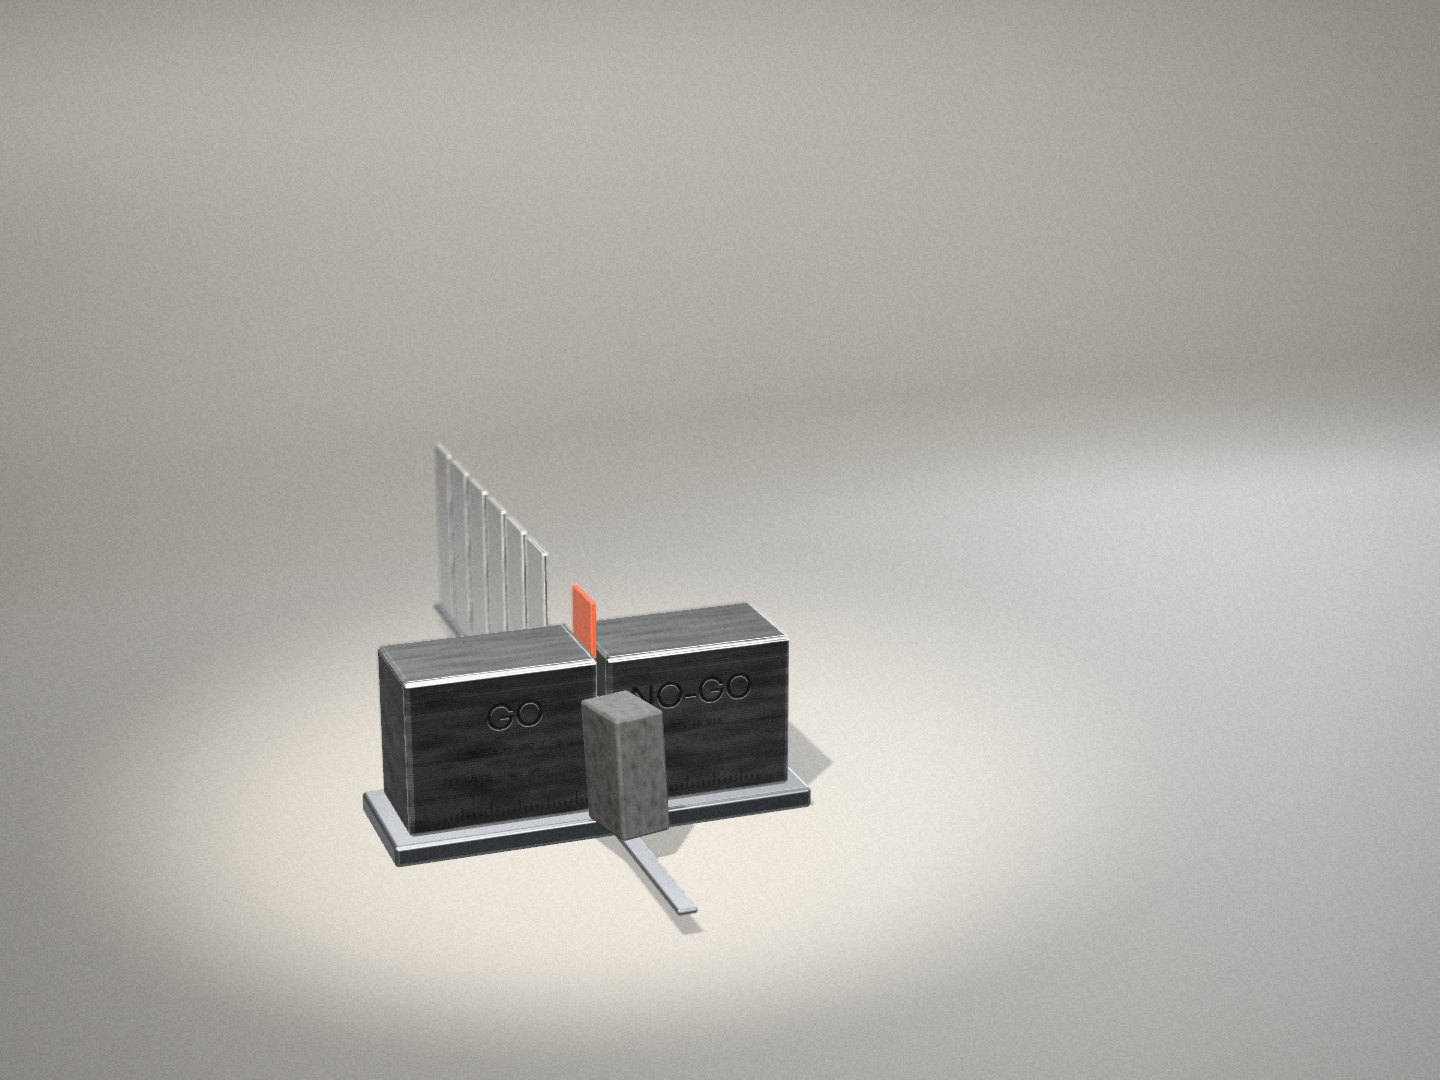
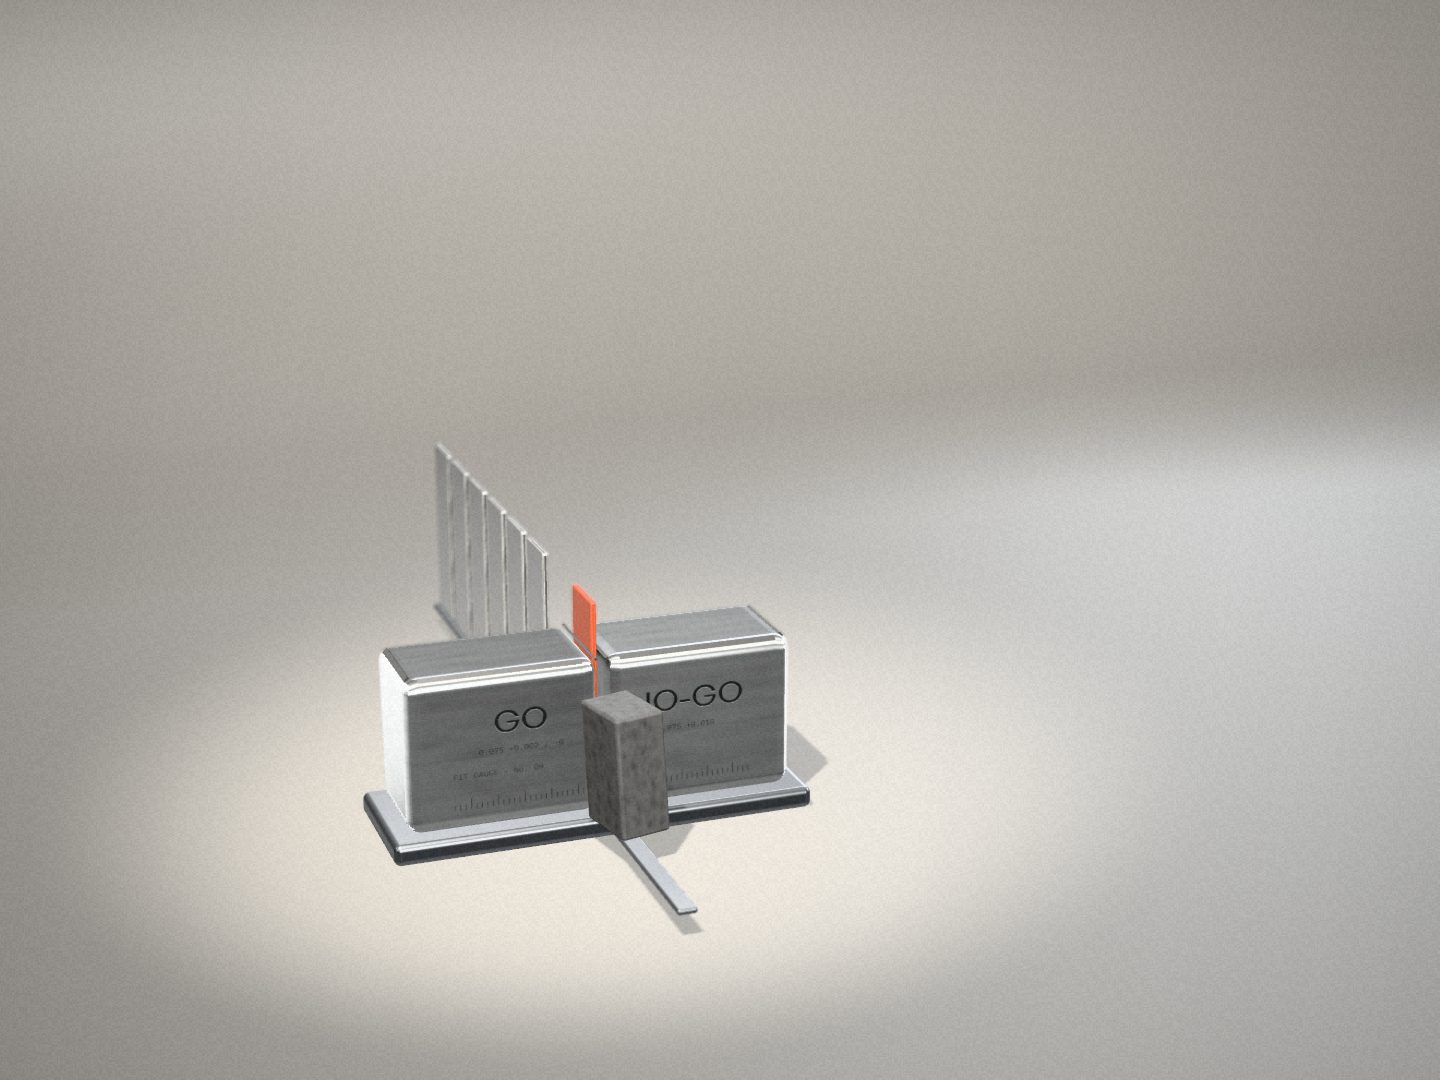
fix: make v3 captions and the booking studio readable
Restore the bone booking studio with satin metal, set product names in General Sans, and lift captions that sat on the wrong tone or ran off the edge.

Changed region(s): [[0.25, 0.55, 0.5625, 0.7944]]

diff --git a/app/home/home.css b/app/home/home.css
@@ -40,7 +40,7 @@
 }
 .pa a.pa-skip:focus { top: 12px; }
 
-.pa-mono, .pa .pa-cap, .pa .pa-note, .pa .pa-prog, .pa .pa-meta, .pa .pa-k, .pa .pa-n, .pa-fit h4, .pa-what li span, .pa-ft, .pa-plate, .pa-person figcaption span, .pa-person figcaption p, .pa-lab, .pa-pin span {
+.pa-mono, .pa .pa-note, .pa .pa-prog, .pa .pa-meta, .pa .pa-k, .pa .pa-n, .pa-fit h4, .pa-what li span, .pa-ft, .pa-plate, .pa-person figcaption span, .pa-person figcaption p, .pa-lab, .pa-pin span, .pa-hero .pa-cap, .pa-eng .pa-cap, .pa-partners .pa-cap, .pa-fit .pa-hint {
   font-family: var(--font-mono);
   font-weight: 400;
   letter-spacing: 0.04em;
@@ -101,7 +101,8 @@
 .pa-actions { margin-top: 28px; display: flex; gap: 28px; align-items: center; font-size: 15px; }
 .pa-hero .pa-cap {
   position: absolute; z-index: 3; right: var(--pad); bottom: calc(var(--pad) + 8px);
-  color: var(--g2); text-align: right; line-height: 1.6; font-size: 11px;
+  width: auto; transform: none;
+  color: var(--g1); text-align: right; line-height: 1.6; font-size: 12px;
 }
 .pa-hero-scrim { display: none; }
 
@@ -119,9 +120,9 @@
 .pa-demo h2 { font-size: 76px; }
 .pa-demo .pa-side { right: var(--pad); top: 112px; width: 330px; font-size: 16px; line-height: 1.5; color: var(--muted); }
 .pa-demo .pa-side b { font-weight: 500; color: var(--ink); }
-.pa-tag { transform: translate(-50%, 0); color: #5b5f62; white-space: nowrap; font-size: 11px; }
+.pa-tag { transform: translate(-50%, 0); color: #3a3e42; white-space: nowrap; font-size: 11px; }
 .pa-tag i { font-style: normal; color: var(--ink); }
-.pa-demo .pa-prog { right: var(--pad); top: 470px; color: #5b5f62; text-align: right; font-size: 11px; }
+.pa-demo .pa-prog { right: var(--pad); top: 470px; color: #3a3e42; text-align: right; font-size: 12px; }
 .pa-demo .pa-prog b { display: block; font-family: var(--font-sans); font-weight: 500; font-size: 44px; letter-spacing: -0.03em; text-transform: none; color: var(--ink); margin-bottom: 6px; }
 .pa-demo .pa-foot {
   left: var(--pad); right: var(--pad); bottom: 44px;
@@ -142,7 +143,12 @@
 .pa-stage-copy .pa-n { display: flex; gap: 12px; align-items: center; margin-bottom: 14px; color: #e2e2df; font-size: 11px; letter-spacing: 0.06em; }
 .pa-stage-copy .pa-n::after { content: ""; flex: 1; height: 1px; background: var(--g3); }
 .pa-stage-copy .pa-meta { margin-top: 14px; font-size: 11px; line-height: 1.7; color: var(--g1); }
-.pa-eng .pa-cap { right: var(--pad); bottom: 40px; color: var(--g2); font-size: 11px; }
+.pa-eng .pa-cap {
+  right: var(--pad); left: auto; bottom: 40px; width: min(480px, 46vw); transform: none;
+  text-align: right; color: #f4f2ec; font-size: 12px; line-height: 1.5;
+  background: rgba(17, 19, 21, 0.86);
+  padding: 10px 14px;
+}
 
 .pa-how { height: 1300px; background: #f1efe9; }
 .pa-how .pa-head { left: var(--pad); top: 120px; width: min(860px, 62vw); }
@@ -187,14 +193,23 @@
 .pa-products h2 { font-size: 72px; }
 .pa-products .pa-side { right: var(--pad); top: 112px; width: 340px; font-size: 16px; line-height: 1.5; color: var(--muted); }
 .pa-products .pa-side b { color: var(--ink); font-weight: 500; }
-.pa-cap { width: 250px; transform: translate(-50%, 0); text-align: left; color: var(--ink); }
-.pa-cap .pa-mono { display: block; margin-bottom: 8px; color: var(--muted); font-size: 11px; }
-.pa-cap h3 { font-size: 19px; margin-bottom: 4px; }
-.pa-cap p { font-size: 14px; line-height: 1.45; color: var(--muted); }
-.pa-cap ul { list-style: none; margin-top: 12px; }
-.pa-cap li { display: grid; grid-template-columns: 78px 1fr; gap: 8px; padding: 5px 0; border-top: 1px solid rgba(17, 19, 21, 0.16); font: 400 10.5px/1.45 var(--font-mono); letter-spacing: 0.03em; text-transform: uppercase; color: #4a4e52; }
-.pa-cap li b { font-weight: 400; color: #1d2023; }
+.pa-products .pa-cap {
+  width: 250px; transform: translate(-50%, 0); text-align: left; color: var(--ink);
+  font-family: var(--font-sans); font-weight: 400; letter-spacing: normal; text-transform: none;
+}
+.pa-products .pa-cap h3,
+.pa-products .pa-cap p,
+.pa-products .pa-status {
+  font-family: var(--font-sans); letter-spacing: normal; text-transform: none; font-weight: 400;
+}
+.pa-products .pa-cap .pa-mono { display: block; margin-bottom: 8px; color: #2c3034; font-size: 11px; }
+.pa-products .pa-cap h3 { font-size: 19px; font-weight: 500; letter-spacing: -0.015em; margin-bottom: 4px; color: var(--ink); }
+.pa-products .pa-cap p { font-size: 14px; line-height: 1.45; color: #2c3034; }
+.pa-products .pa-cap ul { list-style: none; margin-top: 12px; }
+.pa-products .pa-cap li { display: grid; grid-template-columns: 78px 1fr; gap: 8px; padding: 5px 0; border-top: 1px solid rgba(17, 19, 21, 0.16); font: 400 10.5px/1.45 var(--font-mono); letter-spacing: 0.03em; text-transform: uppercase; color: #3a3e42; }
+.pa-products .pa-cap li b { font-weight: 400; color: #1d2023; }
 .pa-status { margin-top: 10px; display: inline-flex; gap: 8px; align-items: center; font-size: 12px; color: var(--ink); }
+.pa-products .pa-status .ph { font-family: var(--font-mono); font-size: 11px; letter-spacing: 0.04em; text-transform: none; }
 .pa-status i { width: 6px; height: 6px; border-radius: 50%; background: var(--ink); }
 .pa-status.is-off { color: var(--muted); }
 .pa-status.is-off i { background: transparent; border: 1px solid #55595d; }
@@ -209,7 +224,11 @@
 .pa-partners .pa-terms span { color: #f3f3f1; font-weight: 500; }
 .pa-partners .pa-terms em { font-style: normal; }
 .pa-partners .pa-cta { right: var(--pad); top: 760px; }
-.pa-partners .pa-cap { left: var(--pad); bottom: 40px; color: #e8e8e6; font-size: 11px; }
+.pa-partners .pa-cap {
+  left: var(--pad); right: auto; bottom: 40px; width: auto; max-width: calc(100% - (var(--pad) * 2));
+  transform: none; white-space: nowrap; text-align: left;
+  color: #141618; font-size: 12px; line-height: 1.4;
+}
 .pa-plate { transform: translate(-50%, -50%); color: #3b3d3f; font-size: 12px; letter-spacing: 0.06em; white-space: nowrap; text-transform: none; }
 
 .pa-team { height: 1220px; background: #1b1d1f; }
@@ -234,32 +253,45 @@
 .pa-fit .pa-head { left: var(--pad); top: 96px; width: min(640px, 46vw); }
 .pa-fit h2 { font-size: 72px; }
 .pa-fit .pa-lists { right: var(--pad); top: 120px; width: 470px; }
-.pa-fit h4 { display: flex; justify-content: space-between; margin: 0 0 12px; font-size: 11px; letter-spacing: 0.06em; color: #3d4144; }
+.pa-fit h4 { display: flex; justify-content: space-between; margin: 0 0 12px; font-size: 12px; letter-spacing: 0.06em; color: #16181a; }
 .pa-fit ul { list-style: none; margin-bottom: 44px; }
 .pa-fit li { border-top: 1px solid rgba(17, 19, 21, 0.2); }
 .pa-fit button {
   display: flex; width: 100%; justify-content: space-between; align-items: baseline; gap: 20px;
   padding: 15px 0; background: none; border: 0; color: var(--ink); font-size: 19px; letter-spacing: -0.01em; text-align: left; cursor: pointer;
 }
-.pa-fit button span:last-child { font-family: var(--font-mono); font-size: 11px; letter-spacing: 0.05em; color: #3d4144; white-space: nowrap; }
-.pa-fit .is-no button { color: #4a4e52; }
+.pa-fit button span:last-child { font-family: var(--font-mono); font-size: 12px; letter-spacing: 0.05em; color: #16181a; white-space: nowrap; }
+.pa-fit .is-no button { color: #2a2e32; }
 .pa-fit .is-no button span:first-child { text-decoration: line-through; text-decoration-color: rgba(17, 19, 21, 0.35); text-decoration-thickness: 1px; }
-.pa-fit .pa-hint { left: var(--pad); bottom: 44px; color: #3d4144; font-size: 11px; }
+.pa-fit .pa-hint {
+  left: var(--pad); bottom: 36px; width: min(540px, 42vw); max-width: calc(100% - (var(--pad) * 2));
+  color: #16181a; font-size: 13px; line-height: 1.45;
+}
 
 .pa-book { height: 1000px; background: #e9e6df; }
 .pa-book .pa-head { left: var(--pad); top: 140px; width: min(820px, 64vw); }
 .pa-book h2 { font-size: 84px; letter-spacing: -0.045em; }
-.pa-book .pa-sub { left: var(--pad); top: 400px; width: 420px; font-size: 17px; line-height: 1.5; color: var(--muted); }
+.pa-book::after {
+  content: "";
+  position: absolute;
+  z-index: 1;
+  left: 0; top: 0; bottom: 0;
+  width: min(820px, 58%);
+  pointer-events: none;
+  background: linear-gradient(90deg, rgba(233, 230, 223, 0.96) 0%, rgba(233, 230, 223, 0.82) 58%, rgba(233, 230, 223, 0) 100%);
+}
+.pa-book .pa-sub { left: var(--pad); top: 400px; width: 420px; font-size: 17px; line-height: 1.5; color: #2c3033; }
 .pa-book .pa-act { left: var(--pad); top: 540px; display: flex; flex-direction: column; gap: 18px; align-items: flex-start; }
-.pa-book .pa-act .ph { font-family: var(--font-mono); font-size: 11px; letter-spacing: 0.04em; }
+.pa-book .pa-act .ph { font-family: var(--font-mono); font-size: 12px; letter-spacing: 0.04em; color: #7a3018; }
 .pa a.pa-alt { font-size: 15px; color: var(--muted); border-bottom: 1px solid rgba(17, 19, 21, 0.3); }
-.pa-book .pa-what { left: var(--pad); top: 760px; width: 470px; font-size: 14px; line-height: 1.5; color: #4a4f53; list-style: none; }
-.pa-book .pa-what li { display: grid; grid-template-columns: 110px 1fr; padding: 9px 0; border-top: 1px solid rgba(17, 19, 21, 0.14); }
-.pa-book .pa-what li span { font-size: 11px; line-height: 1.9; letter-spacing: 0.05em; color: #4a4f53; }
+.pa-book a.pa-alt { color: #1a1d20; border-bottom-color: rgba(17, 19, 21, 0.45); }
+.pa-book .pa-what { left: var(--pad); top: 760px; width: 470px; font-size: 14px; line-height: 1.5; color: #2c3033; list-style: none; }
+.pa-book .pa-what li { display: grid; grid-template-columns: 110px 1fr; padding: 9px 0; border-top: 1px solid rgba(17, 19, 21, 0.22); }
+.pa-book .pa-what li span { font-size: 12px; line-height: 1.9; letter-spacing: 0.05em; color: #1c1f22; }
 .pa-book .pa-ft {
   left: var(--pad); right: var(--pad); bottom: 28px;
   display: flex; justify-content: space-between;
-  font-size: 11px; letter-spacing: 0.05em; color: #4a4f53;
+  font-size: 12px; letter-spacing: 0.05em; color: #2a2e32;
 }
 
 @media (max-width: 820px) {
@@ -311,7 +343,8 @@
   .pa-partners .pa-head { order: 1; }
   .pa-partners .pa-terms { order: 4; margin-top: 8px !important; }
   .pa-partners .pa-cta { order: 5; margin-top: 24px !important; }
-  .pa-partners .pa-cap { order: 6; margin-top: 24px !important; }
+  .pa-partners .pa-cap { order: 6; margin-top: 24px !important; white-space: normal; color: #f7f6f4; background: transparent; }
+  .pa-book::after { display: none; }
   .pa-person { position: relative; left: auto !important; top: auto !important; margin: 34px var(--pad) 0; }
   .pa-person.is-a { width: auto; }
   .pa-person.is-b { width: 72%; margin-left: auto; }

diff --git a/app/home/v3/fit.ts b/app/home/v3/fit.ts
@@ -17,14 +17,14 @@ function variedSteel() {
   for (let k = 0; k < 28; k += 1) {
     const y = n() * 512;
     const tone = 90 + n() * 90;
-    x.fillStyle = `rgba(${tone},${tone + 2},${tone + 4},${0.08 + n() * 0.12})`;
+    x.fillStyle = `rgba(${tone},${tone + 2},${tone + 4},${0.035 + n() * 0.05})`;
     x.fillRect(0, y, 512, 6 + n() * 28);
   }
   for (let k = 0; k < 80; k += 1) {
     const r = 18 + n() * 70;
     const g = x.createRadialGradient(0, 0, 0, 0, 0, r);
     const v = n() < 0.5 ? 70 : 190;
-    g.addColorStop(0, `rgba(${v},${v},${v + 6},${0.08 + n() * 0.1})`);
+    g.addColorStop(0, `rgba(${v},${v},${v + 6},${0.035 + n() * 0.04})`);
     g.addColorStop(1, "rgba(0,0,0,0)");
     x.save();
     x.translate(n() * 512, n() * 512);
@@ -39,7 +39,7 @@ function variedSteel() {
   for (let i = 0; i < image.data.length; i += 4) {
     const j = (i / 4) | 0;
     const row = (j / 512) | 0;
-    const grain = Math.sin(row * 0.85) * 10 + (n() * 16 - 8);
+    const grain = Math.sin(row * 0.85) * 6 + (n() * 8 - 4);
     image.data[i] = Math.max(0, Math.min(255, image.data[i] + grain));
     image.data[i + 1] = Math.max(0, Math.min(255, image.data[i + 1] + grain));
     image.data[i + 2] = Math.max(0, Math.min(255, image.data[i + 2] + grain - 2));
@@ -72,19 +72,23 @@ export async function mountFit(canvas: HTMLCanvasElement, options: SceneOptions)
   S.rim.intensity = 2.2;
   S.rim.position.set(5, 4, -7);
   const { scene } = S;
-  const brush = brushedTex();
+  const brush = brushedTex(5, 28);
   const steelMap = variedSteel();
   const steel = new THREE.MeshPhysicalMaterial({
     color: 0xffffff,
     map: steelMap,
-    metalness: 1,
-    roughness: 0.38,
-    roughnessMap: steelMap,
-    bumpMap: steelMap,
-    bumpScale: 0.07,
-    anisotropy: 0.75,
-    envMapIntensity: 0.95,
+    metalness: 0.92,
+    roughness: 0.36,
+    roughnessMap: brush,
+    bumpMap: brush,
+    bumpScale: 0.018,
+    anisotropy: 0.86,
+    envMapIntensity: 0.62,
   });
+  const steelL = steel.clone();
+  steelL.anisotropyRotation = 0.18;
+  const steelR = steel.clone();
+  steelR.anisotropyRotation = -0.22;
   const ground2 = tex(512, (i) => 150 + Math.sin(i * 2.3) * 8 + (rnd() * 40 - 20));
   const steelG = new THREE.MeshPhysicalMaterial({ color: 0x8e9194, metalness: 1, roughness: 0.42, roughnessMap: ground2, envMapIntensity: 1 });
   const alu = new THREE.MeshPhysicalMaterial({ color: 0xd9d8d4, metalness: 1, roughness: 0.28, roughnessMap: brush, envMapIntensity: 1.1 });
@@ -145,14 +149,24 @@ export async function mountFit(canvas: HTMLCanvasElement, options: SceneOptions)
   const GD = 0.95;
   const slot = 0.075;
   const half = (GW - slot) / 2;
-  for (const sx of [-1, 1]) sh(new THREE.Mesh(new RoundedBoxGeometry(half, GH, GD, 6, 0.045), steel)).position.set(sx * (slot / 2 + half / 2), GH / 2 + 0.18, 0);
-  sh(new THREE.Mesh(new RoundedBoxGeometry(GW + 0.3, 0.18, GD + 0.25, 5, 0.035), steelG)).position.set(0, 0.09, 0);
+  const bevel = 0.12;
+  for (const sx of [-1, 1]) {
+    const block = sh(new THREE.Mesh(new RoundedBoxGeometry(half, GH, GD, 4, bevel), sx < 0 ? steelL : steelR));
+    block.position.set(sx * (slot / 2 + half / 2), GH / 2 + 0.18, 0);
+    const lip = sh(new THREE.Mesh(new THREE.BoxGeometry(0.05, 0.05, GD - bevel * 2), alu));
+    lip.position.set(sx * (slot / 2 + half - bevel * 0.45), GH + 0.18 - 0.028, 0);
+    lip.rotation.z = sx * -Math.PI / 4;
+    const nose = sh(new THREE.Mesh(new THREE.BoxGeometry(half - bevel * 2, 0.045, 0.045), alu));
+    nose.position.set(sx * (slot / 2 + half / 2), GH + 0.18 - 0.03, GD / 2 - bevel * 0.55);
+    nose.rotation.x = Math.PI / 4;
+  }
+  sh(new THREE.Mesh(new RoundedBoxGeometry(GW + 0.3, 0.18, GD + 0.25, 4, 0.055), steelG)).position.set(0, 0.09, 0);
   for (const sx of [-1, 1]) {
     const lip = sh(new THREE.Mesh(new THREE.BoxGeometry(0.02, 0.02, GD - 0.06), alu));
     lip.position.set(sx * (slot / 2 + 0.01), GH + 0.18 - 0.006, 0);
     lip.rotation.z = sx * Math.PI / 4;
   }
-  const face = new THREE.Mesh(new THREE.PlaneGeometry(GW, GH), engrave((x) => {
+  const face = new THREE.Mesh(new THREE.PlaneGeometry(GW - bevel * 1.7, GH - bevel * 1.7), engrave((x) => {
     letters(x, "GO", 560, 250, 190);
     letters(x, "NO-GO", 1500, 250, 190);
     x.font = '400 46px "IBM Plex Mono"';

diff --git a/app/home/v3/book.ts b/app/home/v3/book.ts
@@ -19,35 +19,79 @@ export async function mountBook(canvas: HTMLCanvasElement, options: SceneOptions
     tone: 1,
     light: true,
   });
-  S.setVignette(0.82);
+  S.setVignette(0.94);
+  S.setGrain(0.012);
   S.spot.color.set(0xffe9cf);
   S.spot.penumbra = 0.6;
   S.spot.shadow.radius = 3;
-  S.rim.intensity = 0.3;
+  S.rim.intensity = 0.55;
+  S.rim.color.set(0xffe2c4);
   const { scene, renderer } = S;
+  const hemi = scene.children.find((child): child is THREE.HemisphereLight => child instanceof THREE.HemisphereLight);
+  if (hemi) {
+    hemi.color.set(0xf6f1e8);
+    hemi.groundColor.set(0xe7e1d6);
+    hemi.intensity = 0.95;
+  }
+  const fill = new THREE.DirectionalLight(0xf7f2ea, 2.6);
+  fill.position.set(-12, 9, 14);
+  scene.add(fill);
+  const bounce = new THREE.DirectionalLight(0xffe7cc, 0.7);
+  bounce.position.set(6, 3, -8);
+  scene.add(bounce);
+  const ground = scene.children.find((child): child is THREE.Mesh => child instanceof THREE.Mesh);
+  if (ground && !Array.isArray(ground.material)) {
+    const mat = ground.material as THREE.MeshStandardMaterial;
+    mat.color.set(0xe6e1d8);
+    mat.roughness = 0.88;
+    mat.metalness = 0;
+    mat.envMapIntensity = 0.2;
+  }
   const env = new THREE.Scene();
-  env.add(new THREE.Mesh(new THREE.BoxGeometry(40, 24, 40), new THREE.MeshBasicMaterial({ color: 0x5e5850, side: THREE.BackSide })));
+  env.add(new THREE.Mesh(new THREE.BoxGeometry(40, 24, 40), new THREE.MeshBasicMaterial({ color: 0xd9d3c8, side: THREE.BackSide })));
   const pnl = (pw: number, ph: number, x: number, y: number, z: number, color: number, intensity: number) => {
     const m = new THREE.Mesh(new THREE.PlaneGeometry(pw, ph), new THREE.MeshBasicMaterial({ color: new THREE.Color(color).multiplyScalar(intensity), side: THREE.DoubleSide }));
     m.position.set(x, y, z);
     m.lookAt(0, 1.5, 0);
     env.add(m);
   };
-  pnl(16, 6, 14, 4, -14, 0xffd9b0, 5);
-  pnl(6, 14, 18, 6, -4, 0xffe4c6, 2.2);
-  pnl(30, 30, 0, -11, 0, 0xe9e2d4, 0.9);
-  pnl(14, 10, -16, 6, 12, 0xe6e8ea, 1.6);
-  pnl(30, 4, 0, 14, 0, 0xf2ede4, 1);
+  pnl(16, 6, 14, 4, -14, 0xffd9b0, 2.2);
+  pnl(6, 14, 18, 6, -4, 0xffe4c6, 1.15);
+  pnl(30, 30, 0, -11, 0, 0xe9e2d4, 0.7);
+  pnl(14, 10, -16, 6, 12, 0xe6e8ea, 0.85);
+  pnl(30, 4, 0, 14, 0, 0xf2ede4, 0.7);
   const pm = new THREE.PMREMGenerator(renderer);
   const envTex = pm.fromScene(env, 0.03).texture;
   pm.dispose();
   scene.environment?.dispose();
   scene.environment = envTex;
+  scene.environmentIntensity = 0.42;
   const R = 3.1;
   const N = mobile ? 180 : 260;
   const geo = new RoundedBoxGeometry(1, 1, 1, 2, 0.06);
-  const metal = new THREE.MeshPhysicalMaterial({ color: 0xd6d3cd, metalness: 1, roughness: 0.22, roughnessMap: brushedTex(), anisotropy: 0.5, envMapIntensity: 1, envMap: envTex });
-  const hot = new THREE.MeshPhysicalMaterial({ color: 0xd8643e, metalness: 0.3, roughness: 0.42, clearcoat: 0.5, clearcoatRoughness: 0.3, emissive: 0xd8643e, emissiveIntensity: 0.12, envMap: envTex });
+  const metal = new THREE.MeshPhysicalMaterial({
+    color: 0xc9c5bd,
+    metalness: 0.78,
+    roughness: 0.35,
+    roughnessMap: brushedTex(8, 22),
+    anisotropy: 0.72,
+    anisotropyRotation: 0.35,
+    envMapIntensity: 0.48,
+    clearcoat: 0.04,
+    clearcoatRoughness: 0.7,
+    envMap: envTex,
+  });
+  const hot = new THREE.MeshPhysicalMaterial({
+    color: 0xd8643e,
+    metalness: 0.22,
+    roughness: 0.42,
+    clearcoat: 0.12,
+    clearcoatRoughness: 0.55,
+    emissive: 0xd8643e,
+    emissiveIntensity: 0.05,
+    envMapIntensity: 0.35,
+    envMap: envTex,
+  });
   const fins = new THREE.InstancedMesh(geo, metal, N);
   fins.castShadow = fins.receiveShadow = true;
   const M = new THREE.Matrix4();
@@ -103,7 +147,7 @@ export async function mountBook(canvas: HTMLCanvasElement, options: SceneOptions
   function tick(time: number) {
     raf = 0;
     if (!alive) return;
-    const a = Math.sin(time * 0.00035) * 0.22;
+    const a = Math.sin(time * 0.00022) * 0.05;
     S.spot.position.set(K0.x * Math.cos(a) - K0.z * Math.sin(a), K0.y, K0.x * Math.sin(a) + K0.z * Math.cos(a));
     S.render();
     raf = window.requestAnimationFrame(tick);

diff --git a/app/home/v3/studio.ts b/app/home/v3/studio.ts
@@ -123,11 +123,12 @@ const filmShader = {
     tDiffuse: { value: null as THREE.Texture | null },
     t: { value: 0 },
     vig: { value: 0.62 },
+    grain: { value: 0.04 },
     res: { value: new THREE.Vector2(1, 1) },
   },
   vertexShader: "varying vec2 vUv;void main(){vUv=uv;gl_Position=projectionMatrix*modelViewMatrix*vec4(position,1.0);}",
   fragmentShader: `
-    uniform sampler2D tDiffuse; uniform float t, vig; uniform vec2 res; varying vec2 vUv;
+    uniform sampler2D tDiffuse; uniform float t, vig, grain; uniform vec2 res; varying vec2 vUv;
     float h(vec2 p){return fract(sin(dot(p,vec2(12.9898,78.233)))*43758.5453);}
     void main(){
       vec4 c=texture2D(tDiffuse,vUv);
@@ -135,7 +136,7 @@ const filmShader = {
       float v=smoothstep(1.15,0.25,length(d));
       c.rgb*=mix(vig,1.0,v);
       float g=h(floor(vUv*res/1.5)+t)-0.5;
-      c.rgb+=g*0.04;
+      c.rgb+=g*grain;
       gl_FragColor=c;
     }
   `,
@@ -168,6 +169,7 @@ export type Studio = {
   settle: (frames?: number) => Promise<void>;
   resize: (w: number, h: number) => void;
   setVignette: (value: number) => void;
+  setGrain: (value: number) => void;
   setAperture: (value: number) => void;
   dispose: () => void;
 };
@@ -250,7 +252,7 @@ export function studio(options: StudioOptions): Studio {
   scene.add(new THREE.HemisphereLight(0x2a2f34, 0x0b0c0d, 0.25));
 
   const camera = new THREE.PerspectiveCamera(24, w / Math.max(1, h), 0.1, 100);
-  const samples = mobile ? 0 : Math.min(2, renderer.capabilities.maxSamples || 0);
+  const samples = mobile ? 0 : Math.min(4, renderer.capabilities.maxSamples || 0);
   const renderTarget = new THREE.WebGLRenderTarget(1, 1, { type: THREE.HalfFloatType, samples });
   const composer = new EffectComposer(renderer, renderTarget);
   composer.setPixelRatio(dpr);
@@ -324,6 +326,9 @@ export function studio(options: StudioOptions): Studio {
     resize,
     setVignette(value) {
       film.uniforms.vig.value = value;
+    },
+    setGrain(value) {
+      film.uniforms.grain.value = value;
     },
     setAperture(value) {
       const uniforms = bokeh?.uniforms as { aperture?: { value: number } } | undefined;
